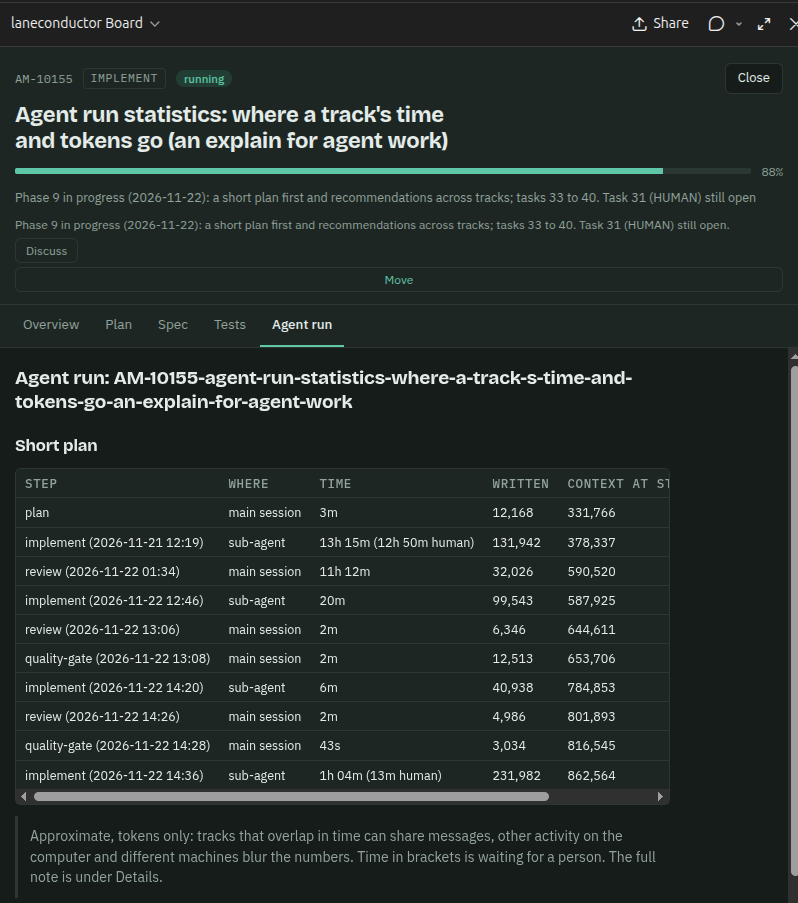
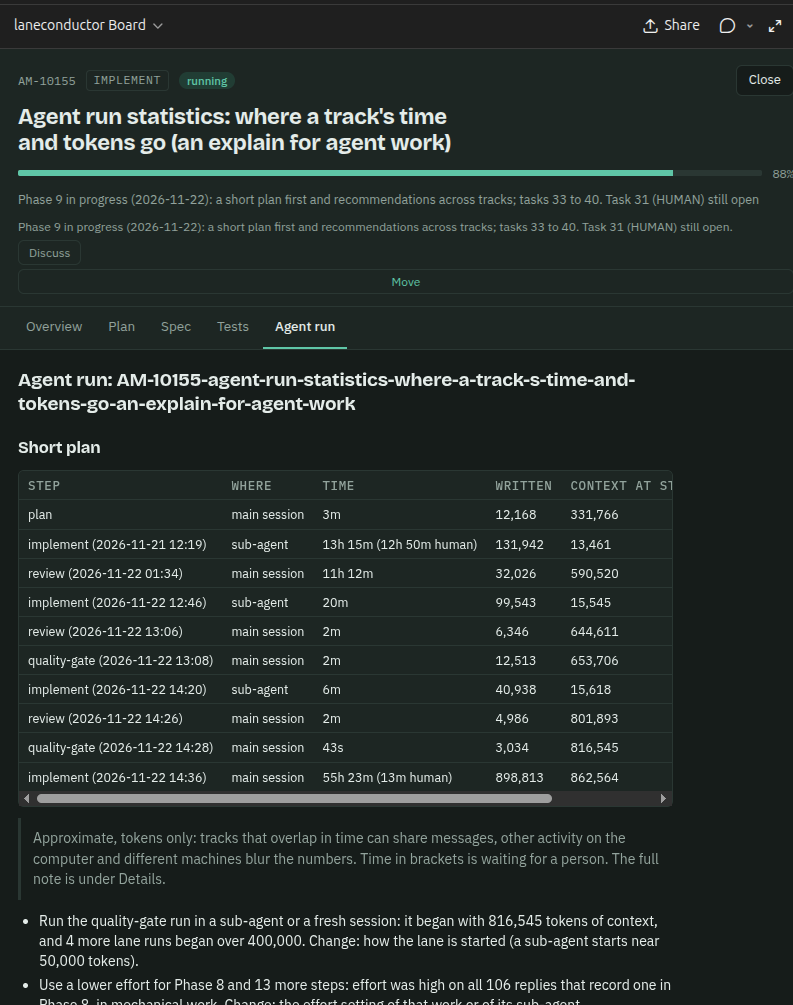
docs(site): post 9 Agent run screenshot retaken with the corrected sub-agent context numbers; size, alt text and caption updated

diff --git a/landing/posts/stop-guessing-what-your-agent-is-doing.html b/landing/posts/stop-guessing-what-your-agent-is-doing.html
@@ -61,10 +61,10 @@
             <p>I had a theory: the instruction text each lane carries (about 27 KB) must be the cost. I also instruct the analysis to find the root cause and suggest a solution, and here it showed that the instruction text was about 3 percent of one reply's context. The real cost is the length of the session doing the work. A sub-agent in its own worktree starts at a median of 35,000 to 57,000 tokens, against the 200,000 to 266,000 that the long session re-reads on every reply. So I changed the default: lane work goes to a sub-agent unless you say otherwise.</p>
             <p><strong>Did it change the next runs?</strong> The project summary answers that without reading any single run. Across the explained tracks (as of 25 November), 10 of 22 lane runs ran in a sub-agent. The 12 that stayed in the main session started with a median of 649,159 tokens of history, and 9 of those 12 began at 400,000 or more. That last number is the one to watch: if the new default works, it goes down with each track, and the Low recommendation on the board goes away.</p>
             <p>It happens to the agent that builds this, too. I ran the same count over the record of the one Claude Code conversation that did most of the work, across 26 days of work spread over 11 weeks (as of 24 November): 7,513 replies wrote about 5.4 million tokens and read about 3.9 billion from cache, around 518,000 per reply, with a peak of 967,000, and it was compacted into a summary 16 times. The 117 sub-agents it started began at a median of 55,000 tokens and averaged 154,000 per reply over their whole run. So the long conversation that coordinates everything is the expensive part of the setup, and the work handed to short sub-agents is the cheaper part. As a rough estimate, if that sub-agent work had run in the main conversation instead, it would have re-read about 2 billion more cached tokens: roughly $200 at Anthropic's API price for cached reads ($0.10 per million tokens on Sonnet 5.5), about a fifth of what the whole session would cost at API prices. That is an API-price equivalent, not a bill (on a subscription you do not pay per token), and it assumes the same replies at the main conversation's average size. This is counts only, read from the session records, and the same limits apply.</p>
-            <p>The report opens the way <code>EXPLAIN</code> does: the steps in a table, and where the cost sits. Everything else is folded under Details. Below the table it marks the most expensive step and adds up to three lines on what to change; the screenshot shows only the table. Here it is for the track that built the feature: one row per lane run, where it ran, how long it took, how many tokens it wrote, and how much context it started with. The time in brackets is waiting for a person.</p>
+            <p>The report opens the way <code>EXPLAIN</code> does: the steps in a table, and where the cost sits. Everything else is folded under Details. Below the table it marks the most expensive step and adds up to three lines on what to change; the screenshot shows the table and the first two lines. Here it is for the track that built the feature: one row per lane run, where it ran, how long it took, how many tokens it wrote, and how much context it started with. The time in brackets is waiting for a person.</p>
             <figure>
-                <img src="/posts/images/board-agent-run-short-plan.png" width="798" height="903" alt="The Agent run tab of a track on the board: a short plan table with one row per lane run, showing where it ran (main session or sub-agent), the time with the human wait in brackets, the tokens written and the context at the start." loading="lazy" />
-                <figcaption>The table of the short plan, for the track that built it. The first implement run shows 13 hours 15 minutes with 12 hours 50 minutes of it waiting for a person, which is why the human time is split out.</figcaption>
+                <img src="/posts/images/board-agent-run-short-plan.png" width="793" height="1005" alt="The Agent run tab of a track on the board: a short plan table with one row per lane run, showing where it ran (main session or sub-agent), the time with the human wait in brackets, the tokens written and the context at the start, and the first suggestion lines below the table." loading="lazy" />
+                <figcaption>The short plan and the first lines under it, for the track that built it. The first implement run shows 13 hours 15 minutes with 12 hours 50 minutes of it waiting for a person, which is why the human time is split out.</figcaption>
             </figure>
             <p>One track is a story; several tracks are a pattern. A button on the board reads the last ten tracks that have these numbers and ranks the actions High, Medium or Low by how many of those tracks they fired on (at most five), each with one number and a button that copies a plain sentence to hand to the agent. On this repository, today, it says three things. High: set the lane to running when you start it, because in all ten tracks some lane runs were never claimed, so their time is inferred. High: use a lower effort for mechanical work, which applied to six of the ten. Low: run long lane work in a sub-agent or a fresh session, which applied to two of the ten.</p>
             <figure>
